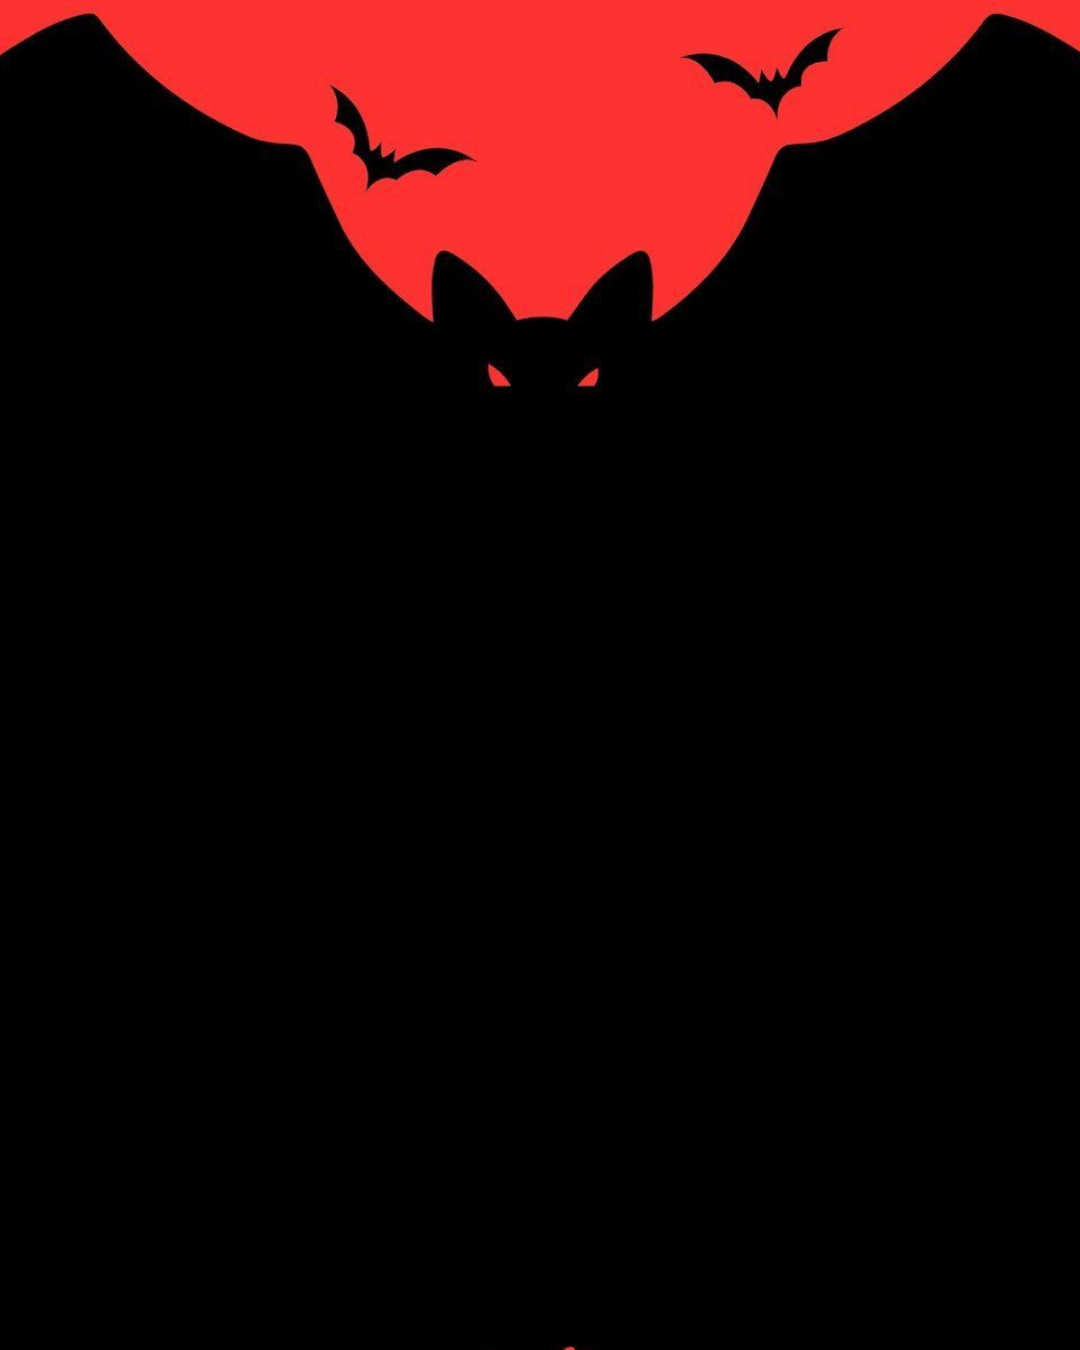
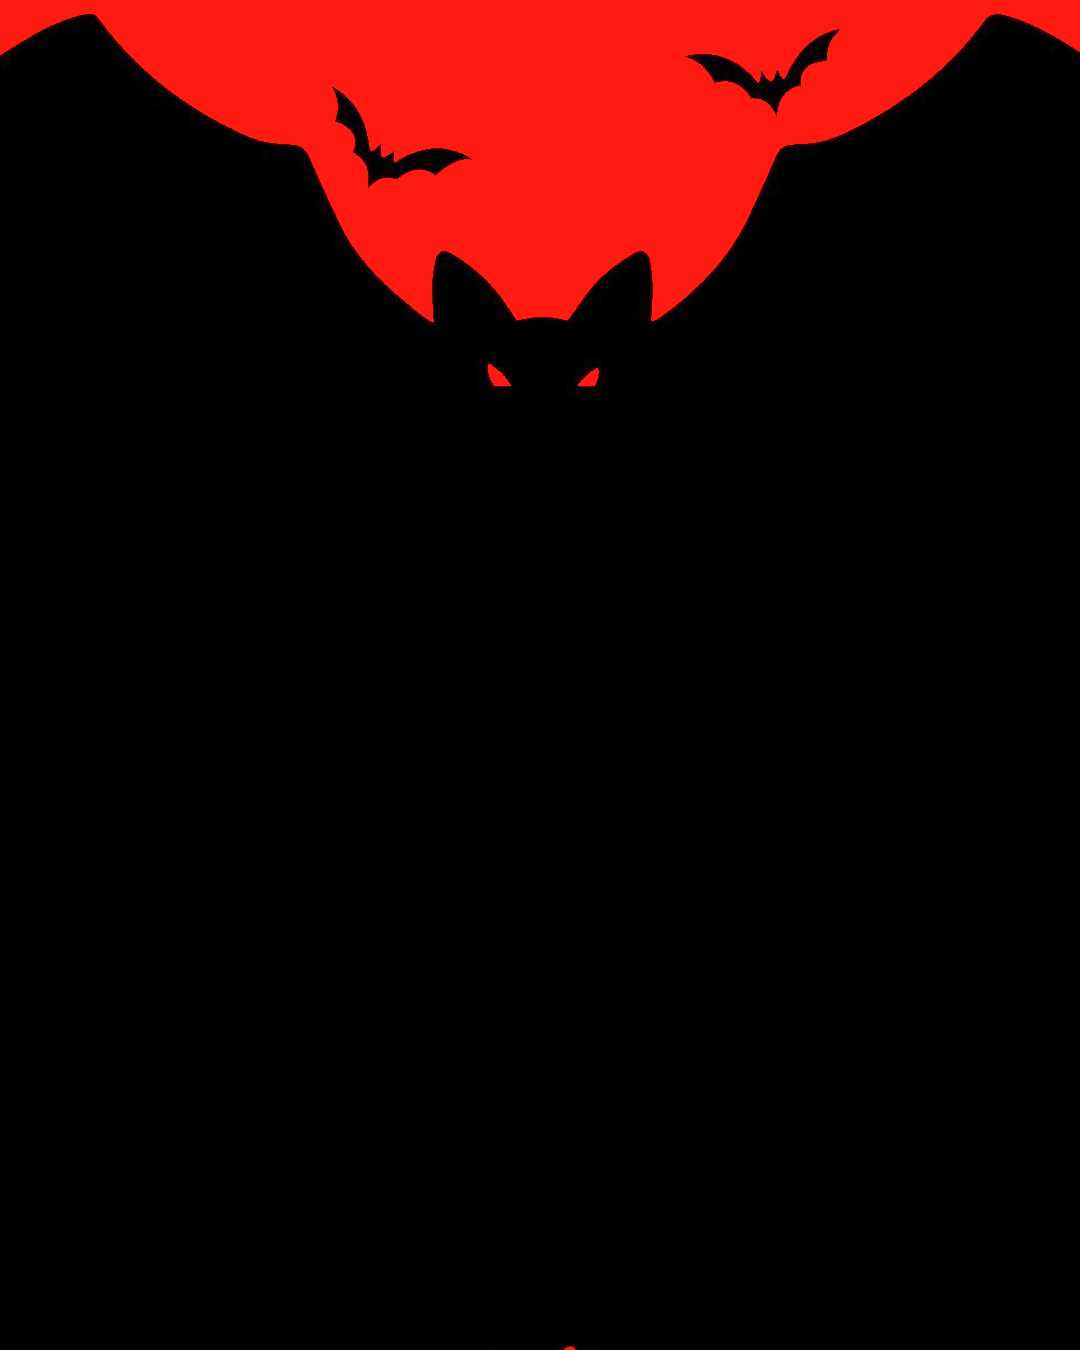
Corrige portas duplicadas no iOS e o tom do fundo do morcego
Portas duplicadas: overflow-x:hidden no body faz o body virar contêiner de
scroll no iOS Safari, o que quebra o position:sticky da abertura — o palco para
de grudar e a porta escorrega, aparecendo duplicada junto com a do hero. Troca
para overflow-x:clip, que recorta a horizontal sem criar contêiner de scroll.

Morcego: o céu da arte estava num vermelho (#ff3131) diferente do vermelho do
site (#ff1a12), criando uma emenda de tom com a seção. Remapeia todo pixel não
preto da imagem para o vermelho exato do site; a arte vira duas cores chapadas,
sem ruído, e emenda com o fundo da seção. Sobe quality do next/image para 90.

Claude-Session: https://claude.ai/code/session_01RN4zWGHy3HAffxFjYFiAEF

Changed region(s): [[0.0, 0.0, 1.0, 0.2489], [0.5194, 0.9956, 0.55, 1.0]]

diff --git a/src/app/globals.css b/src/app/globals.css
@@ -41,7 +41,13 @@ body {
   background-color: var(--color-ink);
   color: var(--color-bone);
   font-family: var(--font-sans);
-  overflow-x: hidden;
+  /*
+    clip, e não hidden: overflow-x:hidden faz o body virar um contêiner de
+    scroll no iOS Safari, o que quebra o position:sticky da abertura — o palco
+    para de grudar e a porta duplica. clip recorta a horizontal sem criar
+    contêiner de scroll, então o sticky continua funcionando.
+  */
+  overflow-x: clip;
 }
 
 ::selection {

diff --git a/src/components/CountdownSection.tsx b/src/components/CountdownSection.tsx
@@ -56,6 +56,7 @@ export function CountdownSection() {
         alt="Morcego gigante recortado contra um céu vermelho"
         fill
         sizes="100vw"
+        quality={90}
         className="arte object-cover object-top"
         priority={false}
       />
